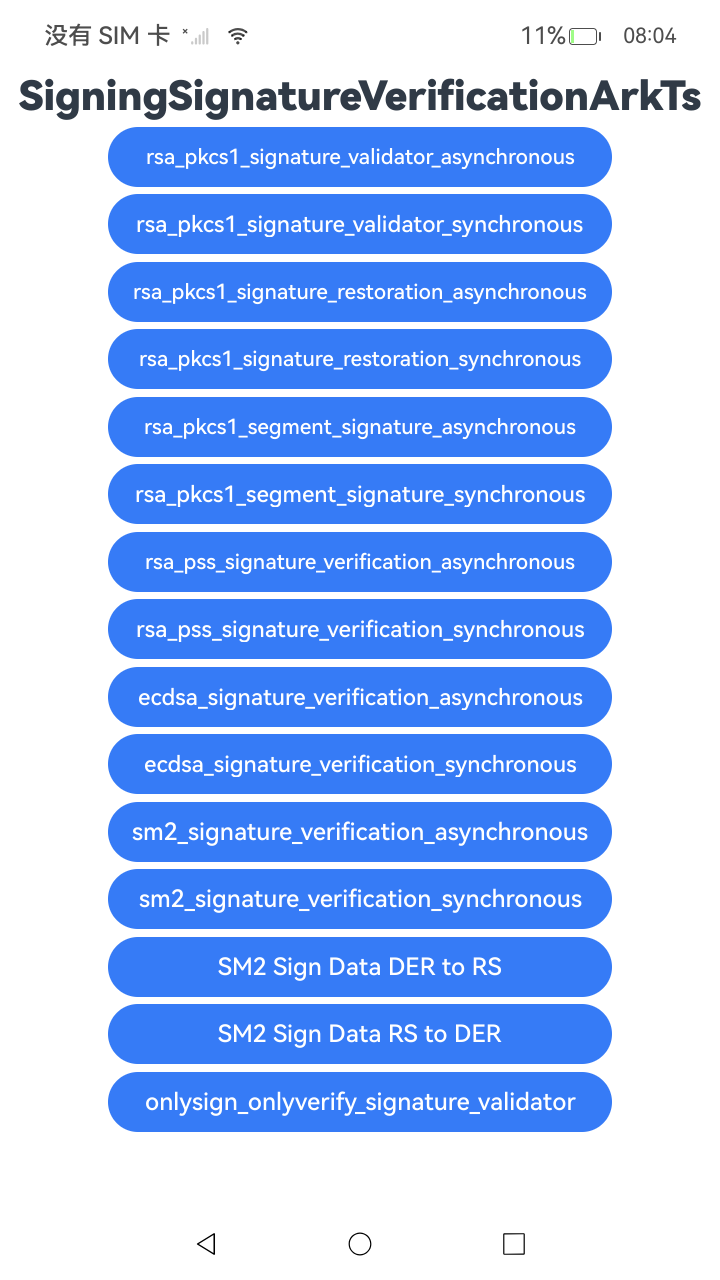
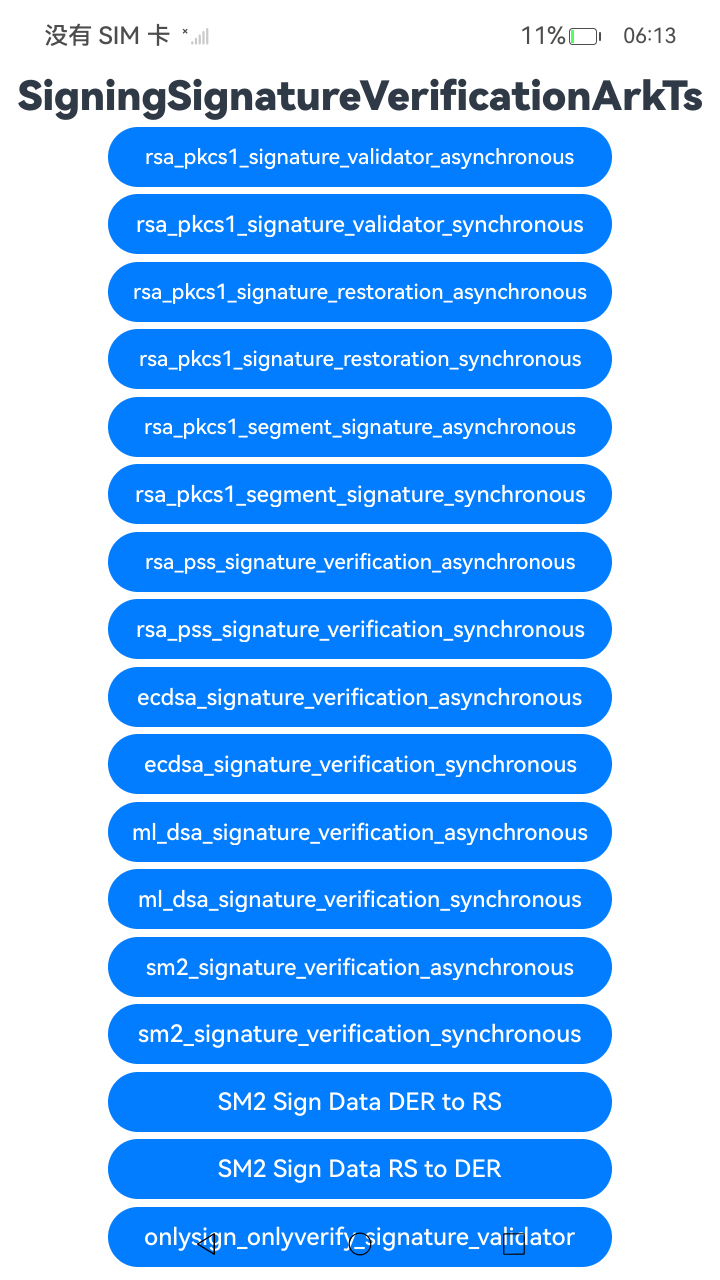
新增ML-DSA签名验签示例代码

diff --git a/code/DocsSample/Security/CryptoArchitectureKit/SignatureVerification/SigningSignatureVerificationArkTs/README.md b/code/DocsSample/Security/CryptoArchitectureKit/SignatureVerification/SigningSignatureVerificationArkTs/README.md
@@ -4,13 +4,14 @@
 
 当需要判断接收的数据是否被篡改、数据是否为指定对象发送的数据时，可以使用签名验签操作。接下来将说明系统目前支持的算法及其对应的规格。
 
-本示例主要展示了签名验签(ArkTS)的多种场景，包括RSA（PKCS1和PSS模式）、ECDSA、SM2等算法的签名验签功能，以及RSA/ECC onlySign-onlyVerify签名验签功能、SM2签名数据格式转换功能。该示例提供了异步和同步两种调用方式。该工程中展示的代码详细描述可查如下链接。
+本示例主要展示了签名验签(ArkTS)的多种场景，包括RSA（PKCS1和PSS模式）、ECDSA、ML-DSA、SM2等算法的签名验签功能，以及RSA/ECC onlySign-onlyVerify签名验签功能、SM2签名数据格式转换功能。该示例提供了异步和同步两种调用方式。该工程中展示的代码详细描述可查如下链接。
 
 - [使用RSA密钥对（PKCS1模式）签名验签(ArkTS)](https://gitcode.com/openharmony/docs/blob/master/zh-cn/application-dev/security/CryptoArchitectureKit/crypto-rsa-sign-sig-verify-pkcs1.md)
 - [使用RSA密钥对（PKCS1模式）签名及签名恢复(ArkTS)](https://gitcode.com/openharmony/docs/blob/master/zh-cn/application-dev/security/CryptoArchitectureKit/crypto-rsa-sign-sig-verify-recover-pkcs1.md)
 - [使用RSA密钥对分段签名验签（PKCS1模式）(ArkTS)](https://gitcode.com/openharmony/docs/blob/master/zh-cn/application-dev/security/CryptoArchitectureKit/crypto-rsa-sign-sig-verify-pkcs1-by-segment.md)
 - [使用RSA密钥对签名验签（PSS模式）(ArkTS)](https://gitcode.com/openharmony/docs/blob/master/zh-cn/application-dev/security/CryptoArchitectureKit/crypto-rsa-sign-sig-verify-pss.md)
 - [使用ECDSA密钥对签名验签(ArkTS)](https://gitcode.com/openharmony/docs/blob/master/zh-cn/application-dev/security/CryptoArchitectureKit/crypto-ecdsa-sign-sig-verify.md)
+- [使用ML-DSA密钥对签名验签(ArkTS)](https://gitcode.com/openharmony/docs/blob/master/zh-cn/application-dev/security/CryptoArchitectureKit/crypto-ml-dsa-sign-sig-verify.md)
 - [使用SM2密钥对签名验签(ArkTS)](https://gitcode.com/openharmony/docs/blob/master/zh-cn/application-dev/security/CryptoArchitectureKit/crypto-sm2-sign-sig-verify-pkcs1.md)
 - [SM2签名数据格式转换(ArkTS)](https://gitcode.com/openharmony/docs/blob/master/zh-cn/application-dev/security/CryptoArchitectureKit/crypto-sm2-sign-data-format-conversion.md)
 - [使用RSA密钥对（PKCS1模式）签名验签（OnlySign和OnlyVerify模式）(ArkTS)](https://gitcode.com/openharmony/docs/blob/master/zh-cn/application-dev/security/CryptoArchitectureKit/crypto-rsa-pkcs1-sig-verify-onlySign-onlyVerify.md)
@@ -32,6 +33,7 @@
    - **RSA PKCS1模式分段签名验签**：异步、同步
    - **RSA PSS模式签名验签**：异步、同步
    - **ECDSA签名验签**：异步、同步
+   - **ML-DSA签名验签**：异步、同步
    - **SM2签名验签**：异步、同步
    - **RSA PKCS1 onlySign-onlyVerify签名验签**：异步、同步
    - **RSA PSS onlySign-onlyVerify签名验签**：异步、同步
@@ -53,6 +55,9 @@ entry/src/
  │   │       ├── ecdsa_signature_verification
  │   │       │   ├── ecdsa_signature_verification_asynchronous.ets
  │   │       │   └── ecdsa_signature_verification_synchronous.ets
+ │   │       ├── ml_dsa_signature_verification
+ │   │       │   ├── ml_dsa_signature_verification_asynchronous.ets
+ │   │       │   └── ml_dsa_signature_verification_synchronous.ets
  │   │       ├── rsa_pkcs1_segment_signature
  │   │       │   ├── rsa_pkcs1_segment_signature_asynchronous.ets
  │   │       │   └── rsa_pkcs1_segment_signature_synchronous.ets
@@ -82,11 +87,11 @@ entry/src/
  │   ├── module.json5
  │   └── resources
  └── ohosTest
-     ├── ets
-     │   └── test
-     │       ├── Ability.test.ets 
-     │       ├── SigningSignatureVerificationArkTs.test.ets  // 自动化测试代码
-     │       └── List.test.ets
+     └── ets
+         └── test
+             ├── Ability.test.ets 
+             ├── SigningSignatureVerificationArkTs.test.ets  // 自动化测试代码
+             └── List.test.ets
 ```
 
 ### 相关权限

diff --git a/code/DocsSample/Security/CryptoArchitectureKit/SignatureVerification/SigningSignatureVerificationArkTs/ohosTest.md b/code/DocsSample/Security/CryptoArchitectureKit/SignatureVerification/SigningSignatureVerificationArkTs/ohosTest.md
@@ -15,6 +15,8 @@
 | 点击按钮，使用RSA密钥对签名验签（PSS模式）(同步)         | 成功拉起应用 |      | 成功并输出日志 | 是       | Pass     |
 | 点击按钮，使用ECDSA密钥对签名验签(异步)                  | 成功拉起应用 |      | 成功并输出日志 | 是       | Pass     |
 | 点击按钮，使用ECDSA密钥对签名验签(同步)                  | 成功拉起应用 |      | 成功并输出日志 | 是       | Pass     |
+| 点击按钮，使用ML-DSA密钥对签名验签(异步)                 | 成功拉起应用 |      | 成功并输出日志 | 是       | Pass     |
+| 点击按钮，使用ML-DSA密钥对签名验签(同步)                 | 成功拉起应用 |      | 成功并输出日志 | 是       | Pass     |
 | 点击按钮，使用SM2密钥对签名验签(异步)                    | 成功拉起应用 |      | 成功并输出日志 | 是       | Pass     |
 | 点击按钮，使用SM2密钥对签名验签(同步)                    | 成功拉起应用 |      | 成功并输出日志 | 是       | Pass     |
 | 点击按钮，使用SM2密钥对签名数据DER格式转换为R,S格式       | 成功拉起应用 |      | 成功并输出日志 | 是       | Pass     |
